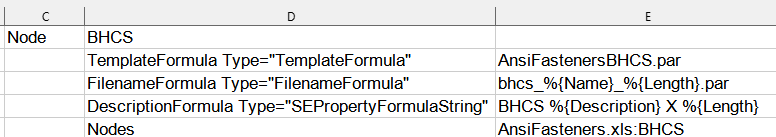
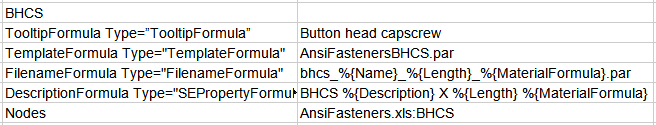
Documentation

diff --git a/Readme.md b/Readme.md
@@ -243,10 +243,11 @@ The program waits for the `Place part` command to finish before proceeding.  Con
 After the components are placed, they are converted to an `Assembly group`.  Finally, the group is patterned if applicable, assuming that option is enabled.
 
 
-
 ## PRE-POPULATING THE LIBRARY
 
-You can add items to the library ahead of time.  Enable the `Pre-populate` checkbox to get started.
+You can add items to the library ahead of time.  Enable the `Pre-populate` checkbox to get started.  
+
+Note, for items with multiple materials available, the material must be selected before starting this process.  Click on an applicable item and select the desired material when prompted.
 
 <p align="center">
   <img src="media/prepopulate_library.png">
@@ -355,9 +356,11 @@ So, for example to update the part number in the file, the program will use the 
 
 Here we are setting up the processing of button head capscrews.  You can see we need to specify what template to use and how to name the file.  We must also provide the companion spreadsheet name and the tab in that file where the information is stored.  
 
-As mentioned previously, formulas can contain entries such as `%{Name}` and `%{Length}`.  Variables not proceeded by `System.` or `Custom.` are assumed to come from the companion spreadsheet.
+As mentioned previously, formulas can contain entries such as `%{Name}` and `%{MaterialFormula}`.  Variables are *populating* the part file, not *reading from it*.  That means you cannot reference a file property like `%{Custom.Engineer}` in a formula.  Variables can only come from the `Storekeeper.xls` or a companion spreadsheet.
 
 In this example, we are also updating the description property.  That isn't necessary for the program to function.  It just illustrates how to update Solid Edge file properties.  Any property in the file can be updated in this way.  
+
+One more thing about this example.  Note there is a tooltip being specified.  If you want one, it needs to be on the first line after a `Node` definition.  There is a fix coming for that restriction, but it's not in there now.
 
 ## OPEN SOURCE PACKAGES
 

diff --git a/release_notes.md b/release_notes.md
@@ -48,7 +48,7 @@ Added support for parts with associated drawings.  (Thank you **@Seva!**)
 
 This can be helpful in cases where users work with simple parts, like a pipe with side holes, but still need a basic drawing to send to the shop.
 
-If a file in the templates directory includes a drawing, the drawing is automatically copied when a new part is created.  It is renamed to match the new part and the links are updated accordingly.
+If a file in the templates directory includes a drawing, the drawing is optionally copied when a new part is created.  It is renamed to match the new part and the links are updated accordingly.  Set the option on the **Tree Search Options** page.
 
 See the [<ins>**Creating New Templates**</ins>](https://github.com/rmcanany/SolidEdgeStorekeeper#creating-new-templates) section of the Readme for details.
 
